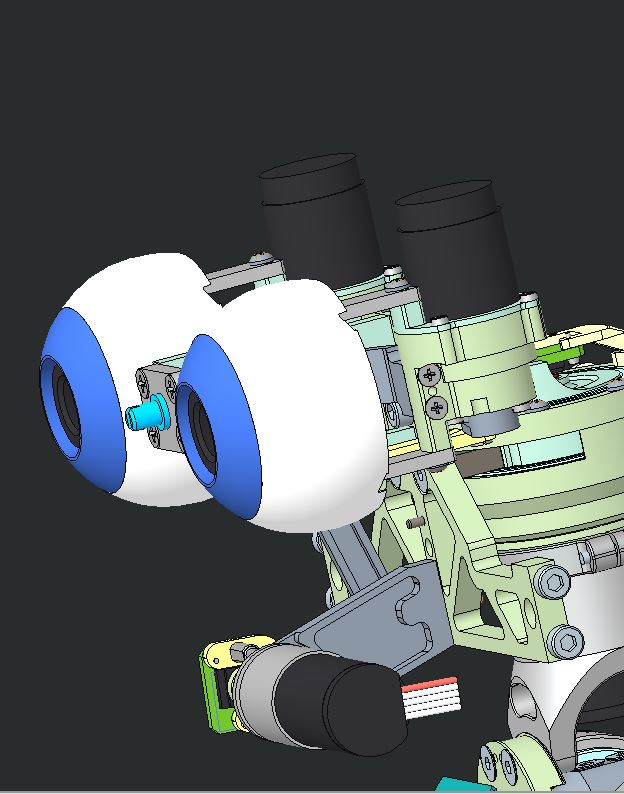
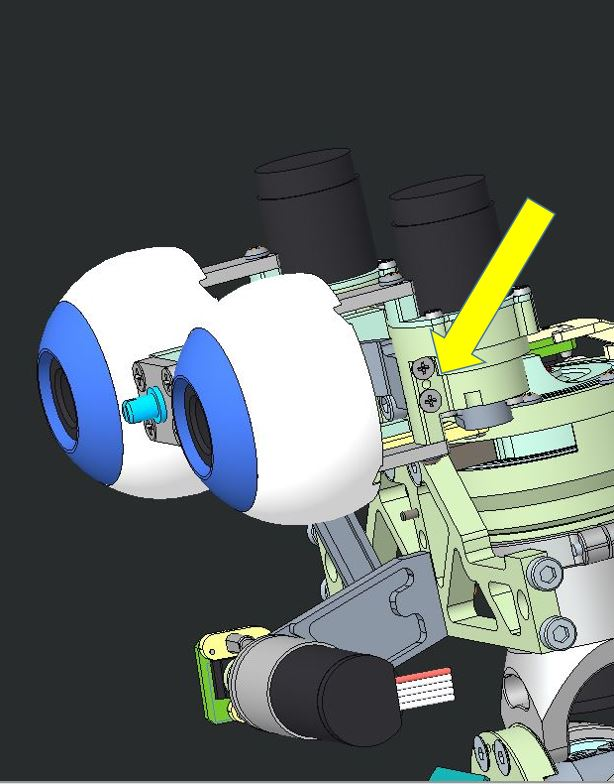
minor changes to documentation

diff --git a/mkdocs/upkt/eyes_support/docs/eyes_support.md b/mkdocs/upkt/eyes_support/docs/eyes_support.md
@@ -11,8 +11,6 @@
 |     1   |  RC_IIT_010_P_048  | V2 eye tilt brace B | 2627 |
 |    2   |  2-10--_-_ISO7046-1_CH  | Screw -M 2 x 10  –  ISO7046 – SS A2 | 2596 |
 |     4   | S1_5-6--_-_I2338_B | Dowel pin 1.5 x 6 stainless steel A2, UNI1707 |   2354    |
-|     6   | XXXXXXXX     |XXXXXXXX            |  XXXXXXXX |
-|     4   | XXXXXXXX       |XXXXXXXX |  2XXXXXXXX |
 
 ## Assembly instruction
 
@@ -31,9 +29,15 @@ We are going to replace parts in the eyes tilt assembly, there are some prelimin
 
   
 
+
     We are going to replace the 4 parts here in picture.
     <center> ![](img\4thng.JPG) </center> 
+    
+    We need to remove eye's assembly from the head unlocking two cross recessed screws
 
+  | <center> ![imagine view](img/remove.JPG) </center> | <center> ![imagine view](img/eye_group.JPG) </center> |
+    | :--------------------------------------------------: | :--------------------------------------------------: |
+    |                    the screws to remove                   |                eye's group                 |
 
 There are two of these parts  in iCub's neck. Here is a picture of the neck with the parts in red.
 
